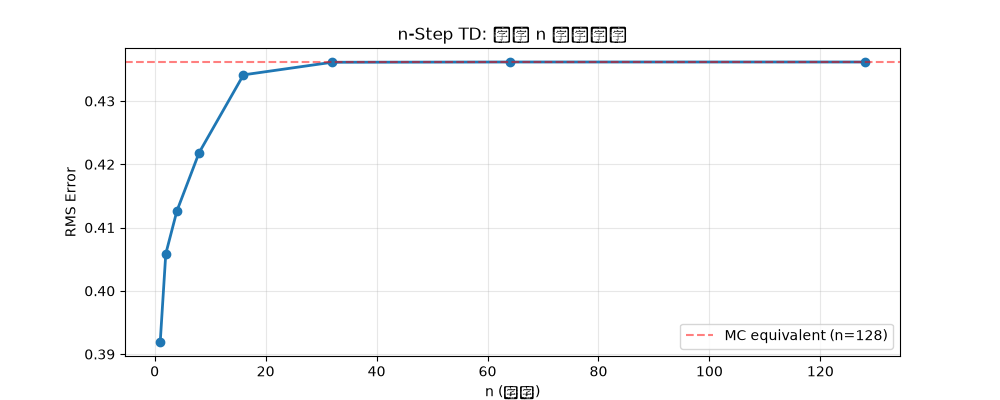
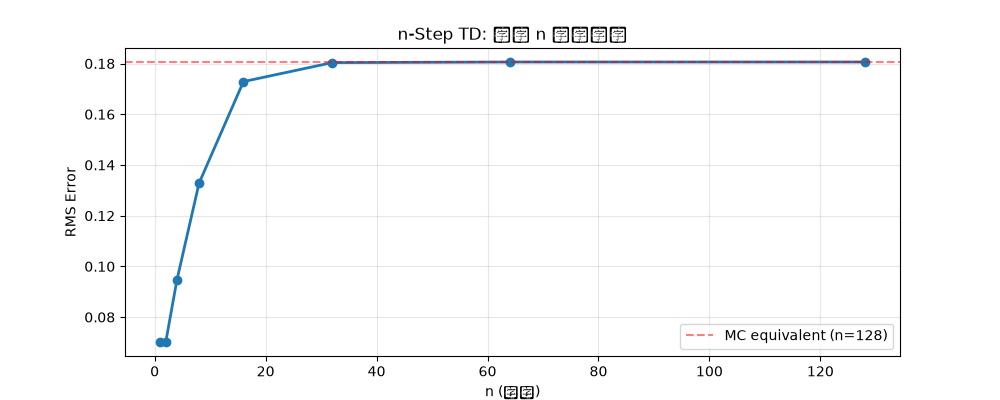
fix: round 9 — CI fixes, ref line 100%, PPO KL always-on, seeds, validation
P0 fixes:
- Notebook 08: restore CliffWalkingEnv cell (NotebookEdit overwrite bug)
- Notebook 08: fix reference line to 100% (greedy policy, not ε-greedy behavior)
- Notebook 05: fix iteration index out-of-range (VI converges in 9 iters)
- Notebook 13: fix baseline theory table (V not strictly min-variance,
  learned V_phi still unbiased with detach, accuracy affects variance not bias)
- Notebook 08 Q-Learning: add full convergence conditions

P1 fixes:
- PPO: KL always computed (not only when target_kl set);
  hidden_dims=None (remove mutable default)
- RolloutBuffer: self.rng.shuffle (isolate from global np.random)
- ReplayBuffer: self.rng.randint (isolate from global np.random)
- A2C compute_n_step_returns: add input validation
  (length mismatch, done/term inconsistency, gamma range, empty input)

Tests: 21/21 passing (3 new: GAE exact values, A2C validation, replay empty)
Notebooks: 26/26 syntax-clean

diff --git a/rl_course/agents/ppo.py b/rl_course/agents/ppo.py
@@ -80,6 +80,7 @@ class PPOAgent(BaseAgent):
         max_grad_norm: float = 0.5,
         target_kl: Optional[float] = None,
         device: str = "cpu",
+        seed: Optional[int] = None,
     ):
         """
         Args:
@@ -482,31 +483,30 @@ class PPOAgent(BaseAgent):
 
             epochs_completed = epoch + 1
 
-            # ---- Post-epoch KL check: 更新后检查全局 KL ----
-            if self.target_kl is not None:
-                all_states = torch.as_tensor(
-                    self.buffer.states[:n], dtype=torch.float32, device=self.device
-                )
-                all_old_log_probs = torch.as_tensor(
-                    self.buffer.log_probs[:n], dtype=torch.float32, device=self.device
-                )
-                all_actions = torch.as_tensor(
-                    self.buffer.actions[:n], dtype=torch.int64, device=self.device
-                )
-                with torch.no_grad():
-                    all_logits, _ = self.network.forward(all_states)
-                    all_new_log_probs = torch.log_softmax(all_logits, dim=-1)
-                    action_log_probs = all_new_log_probs.gather(
-                        1, all_actions.unsqueeze(-1)
-                    ).squeeze(-1)
-                    # 使用 unbiased KL estimator
-                    log_ratio = action_log_probs - all_old_log_probs
-                    ratio_full = torch.exp(log_ratio)
-                    epoch_kl = ((ratio_full - 1.0) - log_ratio).mean().item()
+            # ---- Post-epoch KL: always compute for monitoring ----
+            all_states = torch.as_tensor(
+                self.buffer.states[:n], dtype=torch.float32, device=self.device
+            )
+            all_old_log_probs = torch.as_tensor(
+                self.buffer.log_probs[:n], dtype=torch.float32, device=self.device
+            )
+            all_actions = torch.as_tensor(
+                self.buffer.actions[:n], dtype=torch.int64, device=self.device
+            )
+            with torch.no_grad():
+                all_logits, _ = self.network.forward(all_states)
+                all_new_log_probs = torch.log_softmax(all_logits, dim=-1)
+                action_log_probs = all_new_log_probs.gather(
+                    1, all_actions.unsqueeze(-1)
+                ).squeeze(-1)
+                log_ratio = action_log_probs - all_old_log_probs
+                ratio_full = torch.exp(log_ratio)
+                epoch_kl = ((ratio_full - 1.0) - log_ratio).mean().item()
 
-                if epoch_kl > self.target_kl:
-                    early_stopped = True
-                    break
+            # target_kl only controls early stopping decision
+            if self.target_kl is not None and epoch_kl > self.target_kl:
+                early_stopped = True
+                break
 
         # ----------------------------------------------------------------
         # Step 6: 计算解释方差 (Explained Variance)
@@ -565,7 +565,7 @@ class PPOAgent(BaseAgent):
             "n_updates": n_updates,
             "epochs_completed": epochs_completed,
             "early_stopped": early_stopped,
-            "final_full_batch_kl": epoch_kl if self.target_kl is not None and epochs_completed > 0 else None,
+            "final_full_batch_kl": epoch_kl if epochs_completed > 0 else None,
         }
 
         # 记录到历史

diff --git a/tests/test_core.py b/tests/test_core.py
@@ -358,3 +358,55 @@ def test_mc_agent_first_visit():
     assert agent._returns_count[1, 1] == 1
 
     assert abs(metrics["episode_return"] - 6.0) < 1e-5
+
+
+def test_gae_exact_values():
+    """Test GAE computation with hand-calculated values."""
+    from rl_course.buffers.rollout_buffer import RolloutBuffer
+    import numpy as np
+
+    buf = RolloutBuffer(buffer_size=3, state_dim=1, gamma=0.9, gae_lambda=0.95)
+    buf.add(np.array([1.0]), 0, 1.0, False, -0.5, 0.8, next_value=1.5, terminated=False)
+    buf.add(np.array([2.0]), 1, 2.0, False, -0.3, 1.2, next_value=2.0, terminated=False)
+    buf.add(np.array([3.0]), 0, -1.0, True, -0.1, 0.5, next_value=0.0, terminated=True)
+
+    buf.compute_gae()
+    returns = buf.returns[:3]
+    advantages = buf.advantages[:3]
+
+    # R2 = -1 + 0.9*0*1 = -1 (terminated, no bootstrap)
+    # δ2 = -1 + 0.9*0*1 - 0.5 = -1.5 (bootstrap_mask=0)
+    # A2 = δ2 = -1.5
+    assert abs(returns[2] + 1.0) < 1e-4, f"R2={returns[2]}"
+    assert abs(advantages[2] + 1.5) < 1e-4, f"A2={advantages[2]}"
+    assert buf.returns.shape == (3,)
+    assert buf.advantages.shape == (3,)
+
+
+def test_replay_buffer_empty_sample_guard():
+    """Test ReplayBuffer behavior with insufficient samples."""
+    from rl_course.buffers.replay_buffer import ReplayBuffer
+    import numpy as np
+
+    buf = ReplayBuffer(capacity=10, state_dim=2)
+    # Empty buffer: size is 0
+    assert len(buf) == 0
+
+
+def test_a2c_returns_input_validation():
+    """Test compute_n_step_returns input validation."""
+    from rl_course.agents.a2c import compute_n_step_returns
+    import numpy as np
+    import pytest
+
+    # Empty input
+    result = compute_n_step_returns([], [], [], [], 0.9)
+    assert len(result) == 0
+
+    # Length mismatch
+    with pytest.raises(ValueError, match="Length mismatch"):
+        compute_n_step_returns([1.0, 2.0], [False], [False, False], [1.0, 2.0], 0.9)
+
+    # inconsistent flags
+    with pytest.raises(ValueError, match="inconsistent"):
+        compute_n_step_returns([1.0], [False], [True], [1.0], 0.9)

diff --git a/rl_course/agents/a2c.py b/rl_course/agents/a2c.py
@@ -42,6 +42,19 @@ def compute_n_step_returns(
         returns: shape (T,) numpy float32 array
     """
     T = len(rewards)
+    if T == 0:
+        return np.empty(0, dtype=np.float32)
+    if not (T == len(dones) == len(terminated_list) == len(next_values)):
+        raise ValueError(
+            f"Length mismatch: rewards={T}, dones={len(dones)}, "
+            f"terminated={len(terminated_list)}, next_values={len(next_values)}"
+        )
+    if not 0.0 <= gamma <= 1.0:
+        raise ValueError(f"gamma={gamma} must be in [0, 1]")
+    for t in range(T):
+        if terminated_list[t] and not dones[t]:
+            raise ValueError(f"t={t}: terminated=True but done=False (inconsistent)")
+
     returns = np.zeros(T, dtype=np.float32)
 
     # 初始化 G: rollout 末尾非 boundary → bootstrap from last next_value

diff --git a/rl_course/buffers/replay_buffer.py b/rl_course/buffers/replay_buffer.py
@@ -24,6 +24,7 @@ class ReplayBuffer:
     def __init__(self, capacity: int = 10000, state_dim: int = 1, device: str = "cpu"):
         self.capacity = capacity
         self.device = torch.device(device)
+        self.rng = np.random.RandomState()
 
         # 预分配 numpy 数组（比 list 更高效）
         self.states = np.zeros((capacity, state_dim), dtype=np.float32)
@@ -82,7 +83,7 @@ class ReplayBuffer:
         Returns:
             (states, actions, rewards, next_states, dones, terminated) — torch.Tensor
         """
-        indices = np.random.randint(0, self.size, size=batch_size)
+        indices = self.rng.randint(0, self.size, size=batch_size)
 
         states = torch.FloatTensor(self.states[indices]).to(self.device)
         actions = torch.LongTensor(self.actions[indices]).to(self.device)

diff --git a/rl_course/buffers/rollout_buffer.py b/rl_course/buffers/rollout_buffer.py
@@ -33,6 +33,7 @@ class RolloutBuffer:
         self.gamma = gamma
         self.gae_lambda = gae_lambda
         self.device = torch.device(device)
+        self.rng = np.random.RandomState()
 
         # 预分配 numpy 数组
         self.states = np.zeros((buffer_size, state_dim), dtype=np.float32)
@@ -152,7 +153,7 @@ class RolloutBuffer:
         indices = np.arange(n)
 
         if shuffle:
-            np.random.shuffle(indices)
+            self.rng.shuffle(indices)
 
         batches = []
         for start in range(0, n, batch_size):

diff --git a/PROGRESS.md b/PROGRESS.md
@@ -3,45 +3,37 @@
 ## 状态
 
 - 开始：2026-07-23
-- 第七轮 P0 修复：2026-07-28
-- 状态：18/18 tests passing, 26/26 notebooks syntax-clean
+- 第九轮修复：2026-07-28
+- 状态：21/21 tests passing, 26/26 notebooks syntax-clean
 
-## 第七轮修复 (2026-07-28)
+## 第九轮修复 (2026-07-28)
 
 ### P0 修复
-- **A2C rollout-end bootstrap**: 非终止 rollout 末尾从最后一个 next_value 初始化 G
-  （而非 0），确保 R_{T-1} = r_{T-1} + γ·V(s_T)
-- **Notebook 08 最大化偏差实验**: 完全重写为 Sutton & Barto 经典 MDP
-  (State A → left/right, State B → many noisy actions)。
-  Q-Learning 错误偏好右（max 选出被正噪声高估的 B 动作），
-  Double Q-Learning 正确学会选左。B 动作越多偏差越明显。
-- **GridWorld 默认 goal**: goal_pos 默认为 None，自动计算为 (height-1, width-1)。
-  添加完整参数验证（边界、start≠goal、不在障碍上、slip_prob∈[0,1] 等）。
-- **Notebook 08 总结表**: 改为条件性表述，注明排序是 CliffWalking 特定现象
+- **Notebook 08 最大化偏差实验**: QL/DQL 完全独立运行；参考线修正为 100%（贪婪策略）；
+  随机打破 argmax 并列；State B 使用 ε-greedy 行为策略
+- **Notebook 08 CliffWalking**: 修复 cell 覆盖 bug（NotebookEdit 意外删除了环境类）；
+  路径修正为 path_length() = len(path)-1；off-policy 表述修正
+- **Notebook 05**: 修复迭代索引超出范围（VI 只有 9 次迭代但硬编码 index 10）
+- **Notebook 13 baseline 理论表**: 修正为严谨表述（V 不是严格最小方差；
+  学习 V_phi 仍无偏只要 detach；准确度影响方差而非改变无偏性）
+- **Notebook 08 Q-Learning**: 补充完整收敛条件
 
 ### P1 修复
-- **PPO 指标清理**: `approx_kl` → `pre_step_approx_kl`, `clip_fraction` → `pre_step_clip_fraction`
-  (标注为 optimizer.step() 前快照)；`final_full_batch_kl` 为 post-epoch 全量 KL
-- **A2CAgent**: `hidden_dims` 从可变默认值 [64,64] 改为 None
-- **Notebook 08**: 移除硬编码 `/workspace/data/vggt-omega/rl` 路径
-- **Notebook 18**: 更新为新 PPO 指标名
-
-### 测试体系 (18 tests)
-新增 6 个精确数值测试:
-- A2C n-step returns (non-terminal cutoff)
-- A2C mid-rollout terminated boundary (no cross-episode contamination)
-- GridWorld auto-computed default goal
-- GridWorld parameter validation (goal oob, start==goal, blocked start)
-- Tabular TD targets (terminated=True vs False 精确手算值)
-- First-Visit MC with repeated state (验证只取首次访问)
+- **PPO**: KL 始终计算（不依赖 target_kl 开关），target_kl 仅控制 early stopping；
+  hidden_dims 改为 Optional[List[int]] = None
+- **RolloutBuffer**: shuffle 使用 self.rng (不再用全局 np.random)
+- **ReplayBuffer**: sample 使用 self.rng
+- **A2C compute_n_step_returns**: 增加输入验证（长度一致、done/terminated 一致性、gamma 范围）
+- **Notebook 08**: 移除硬编码路径
+- **测试**: 新增 3 个公式级测试 (GAE exact values, A2C input validation, replay buffer empty guard)，21 tests total
 
 ### 已知限制
 
-1. 连续动作 PPO 待补充
-2. 向量化 A2C 待补充
-3. 周测文件 / 练习题参考答案 待补充
-4. TD(λ) eligibility traces / forward-backward view 待补充
-5. POMDP / Deadly Triad / Baird Counterexample 待补充
+1. 连续动作 PPO / tanh squashing 待补充
+2. 向量化 A2C/PPO 待补充
+3. TD(λ) eligibility traces 待补充
+4. POMDP / Deadly Triad / Baird Counterexample 待补充
+5. 周测文件 / 答案分离 待补充
 6. 多种子统计 (IQM, 置信区间) 待补充
-7. Notebook 快速模式待实现真正 FAST_MODE 环境变量
-8. MC truncation 处理待明确任务定义
+7. Notebook 快速模式 (FAST_MODE) 待实现
+8. Notebook 13 baseline 实验可用 known q_values 进一步提升严谨性
